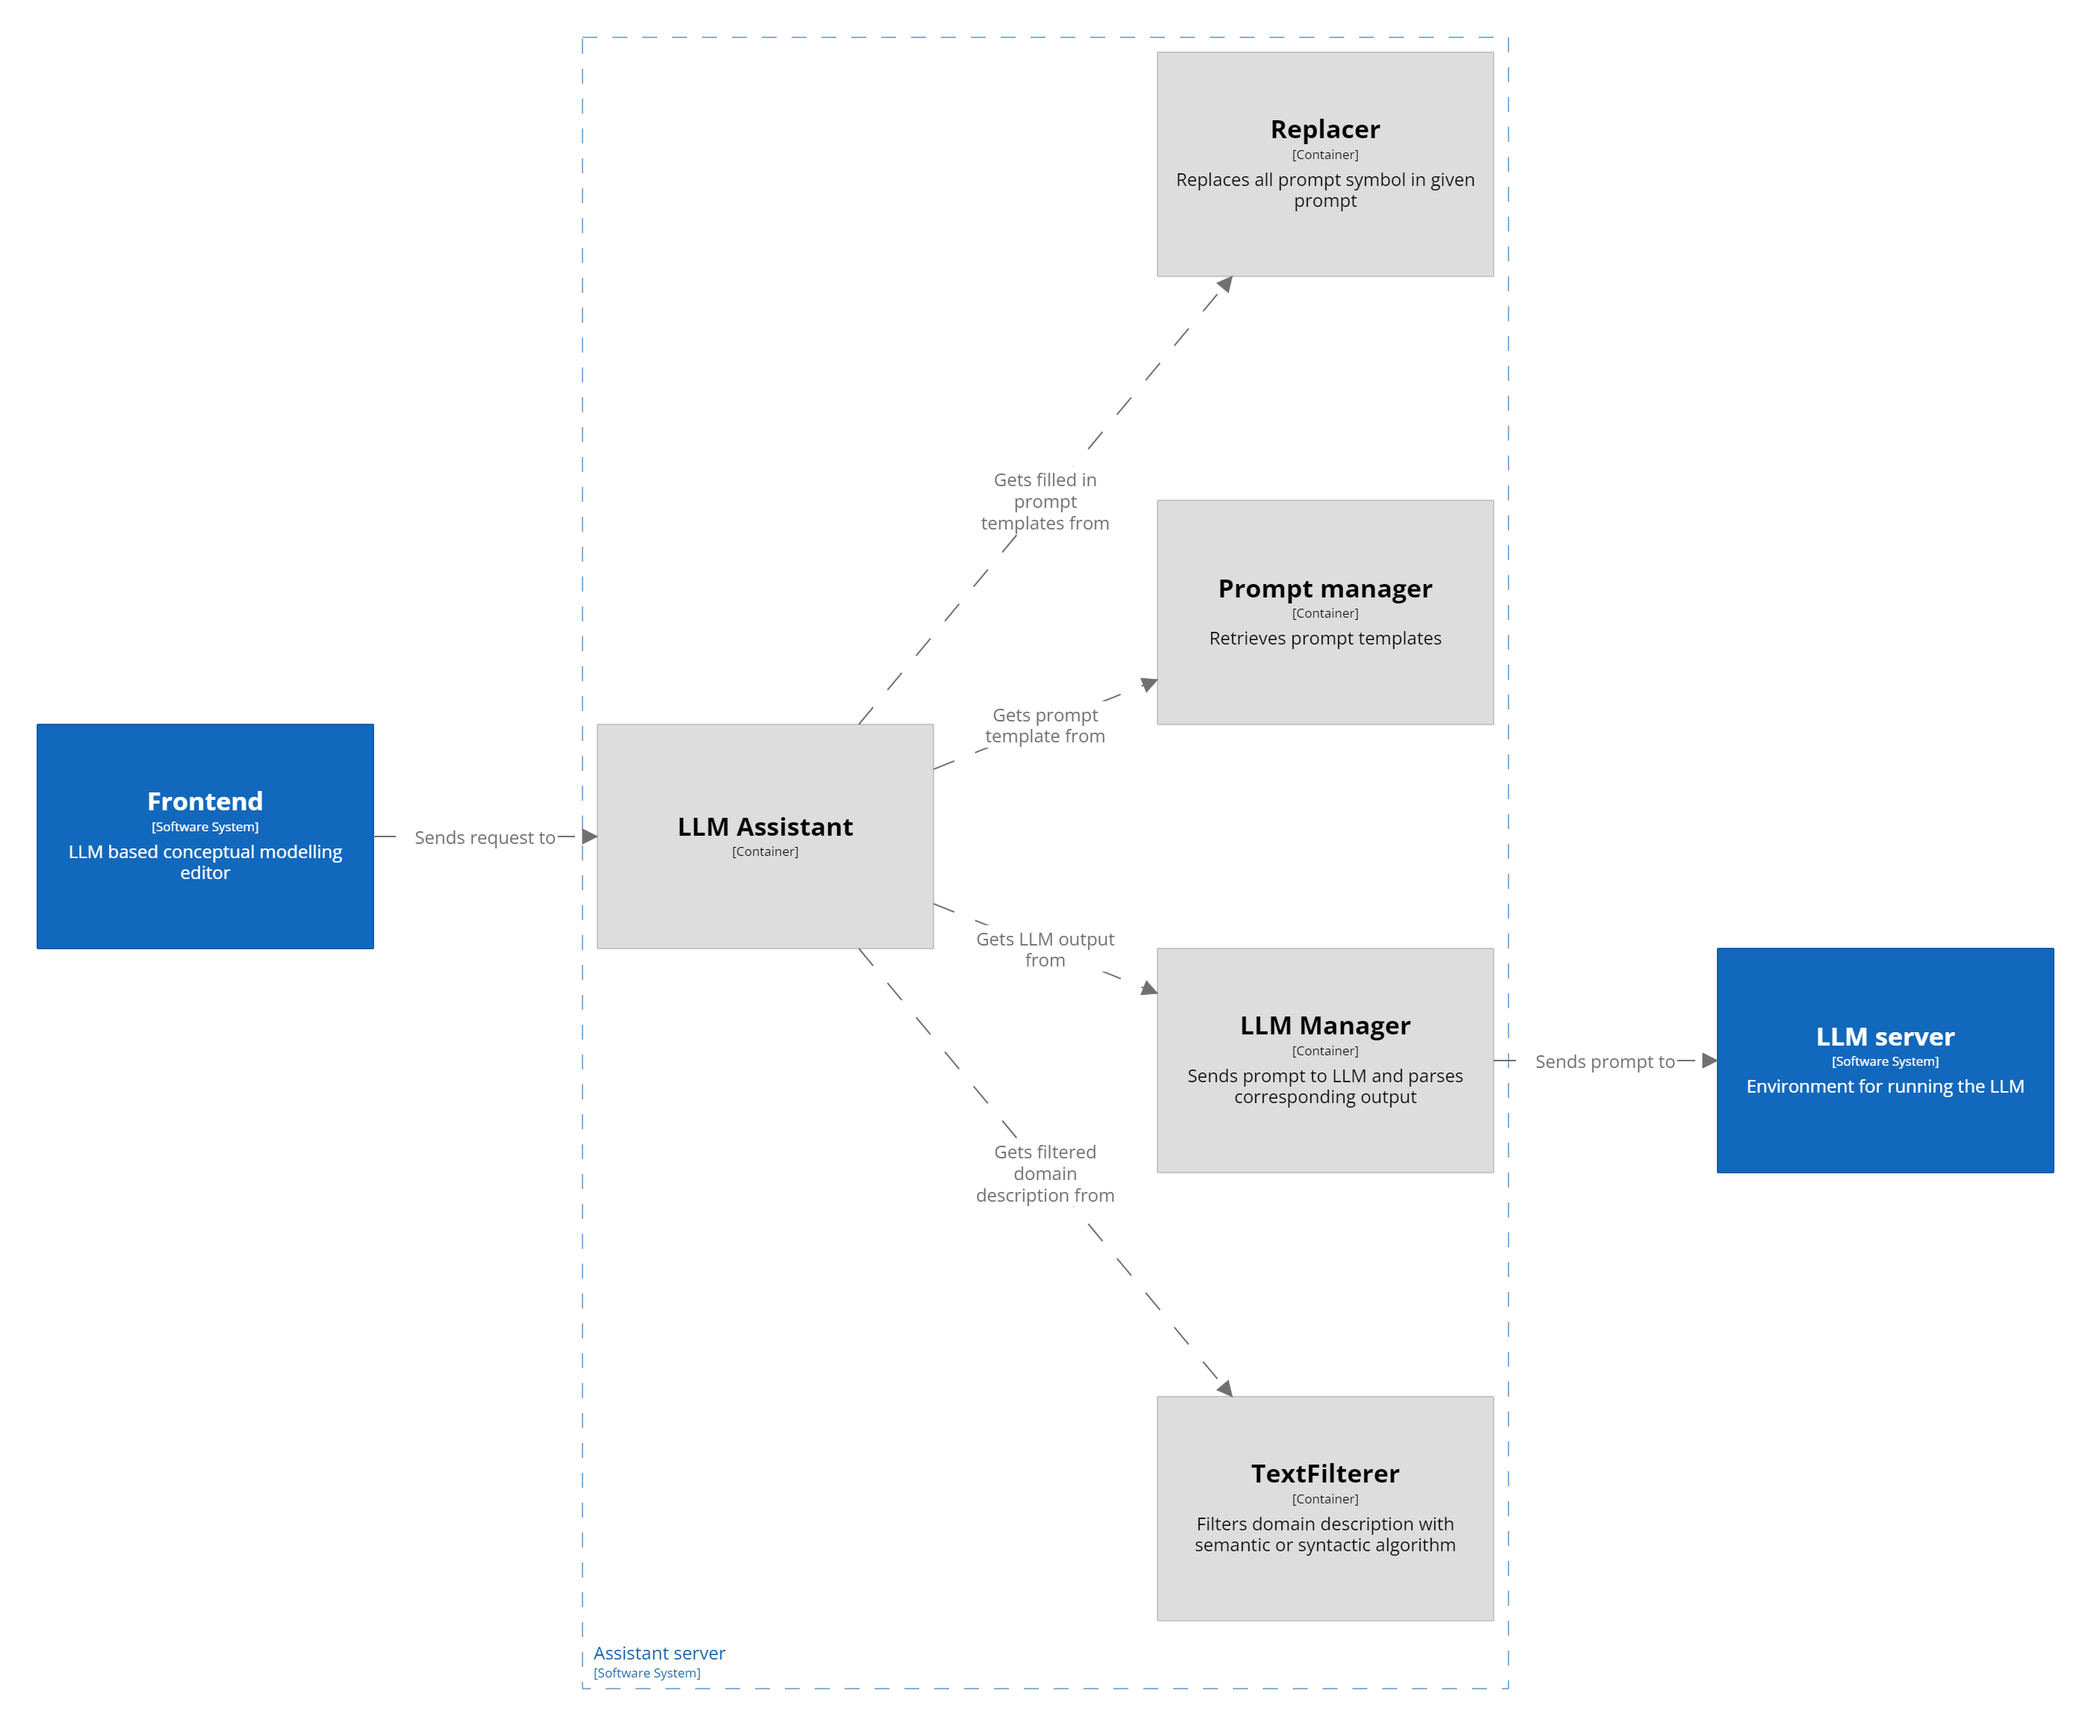
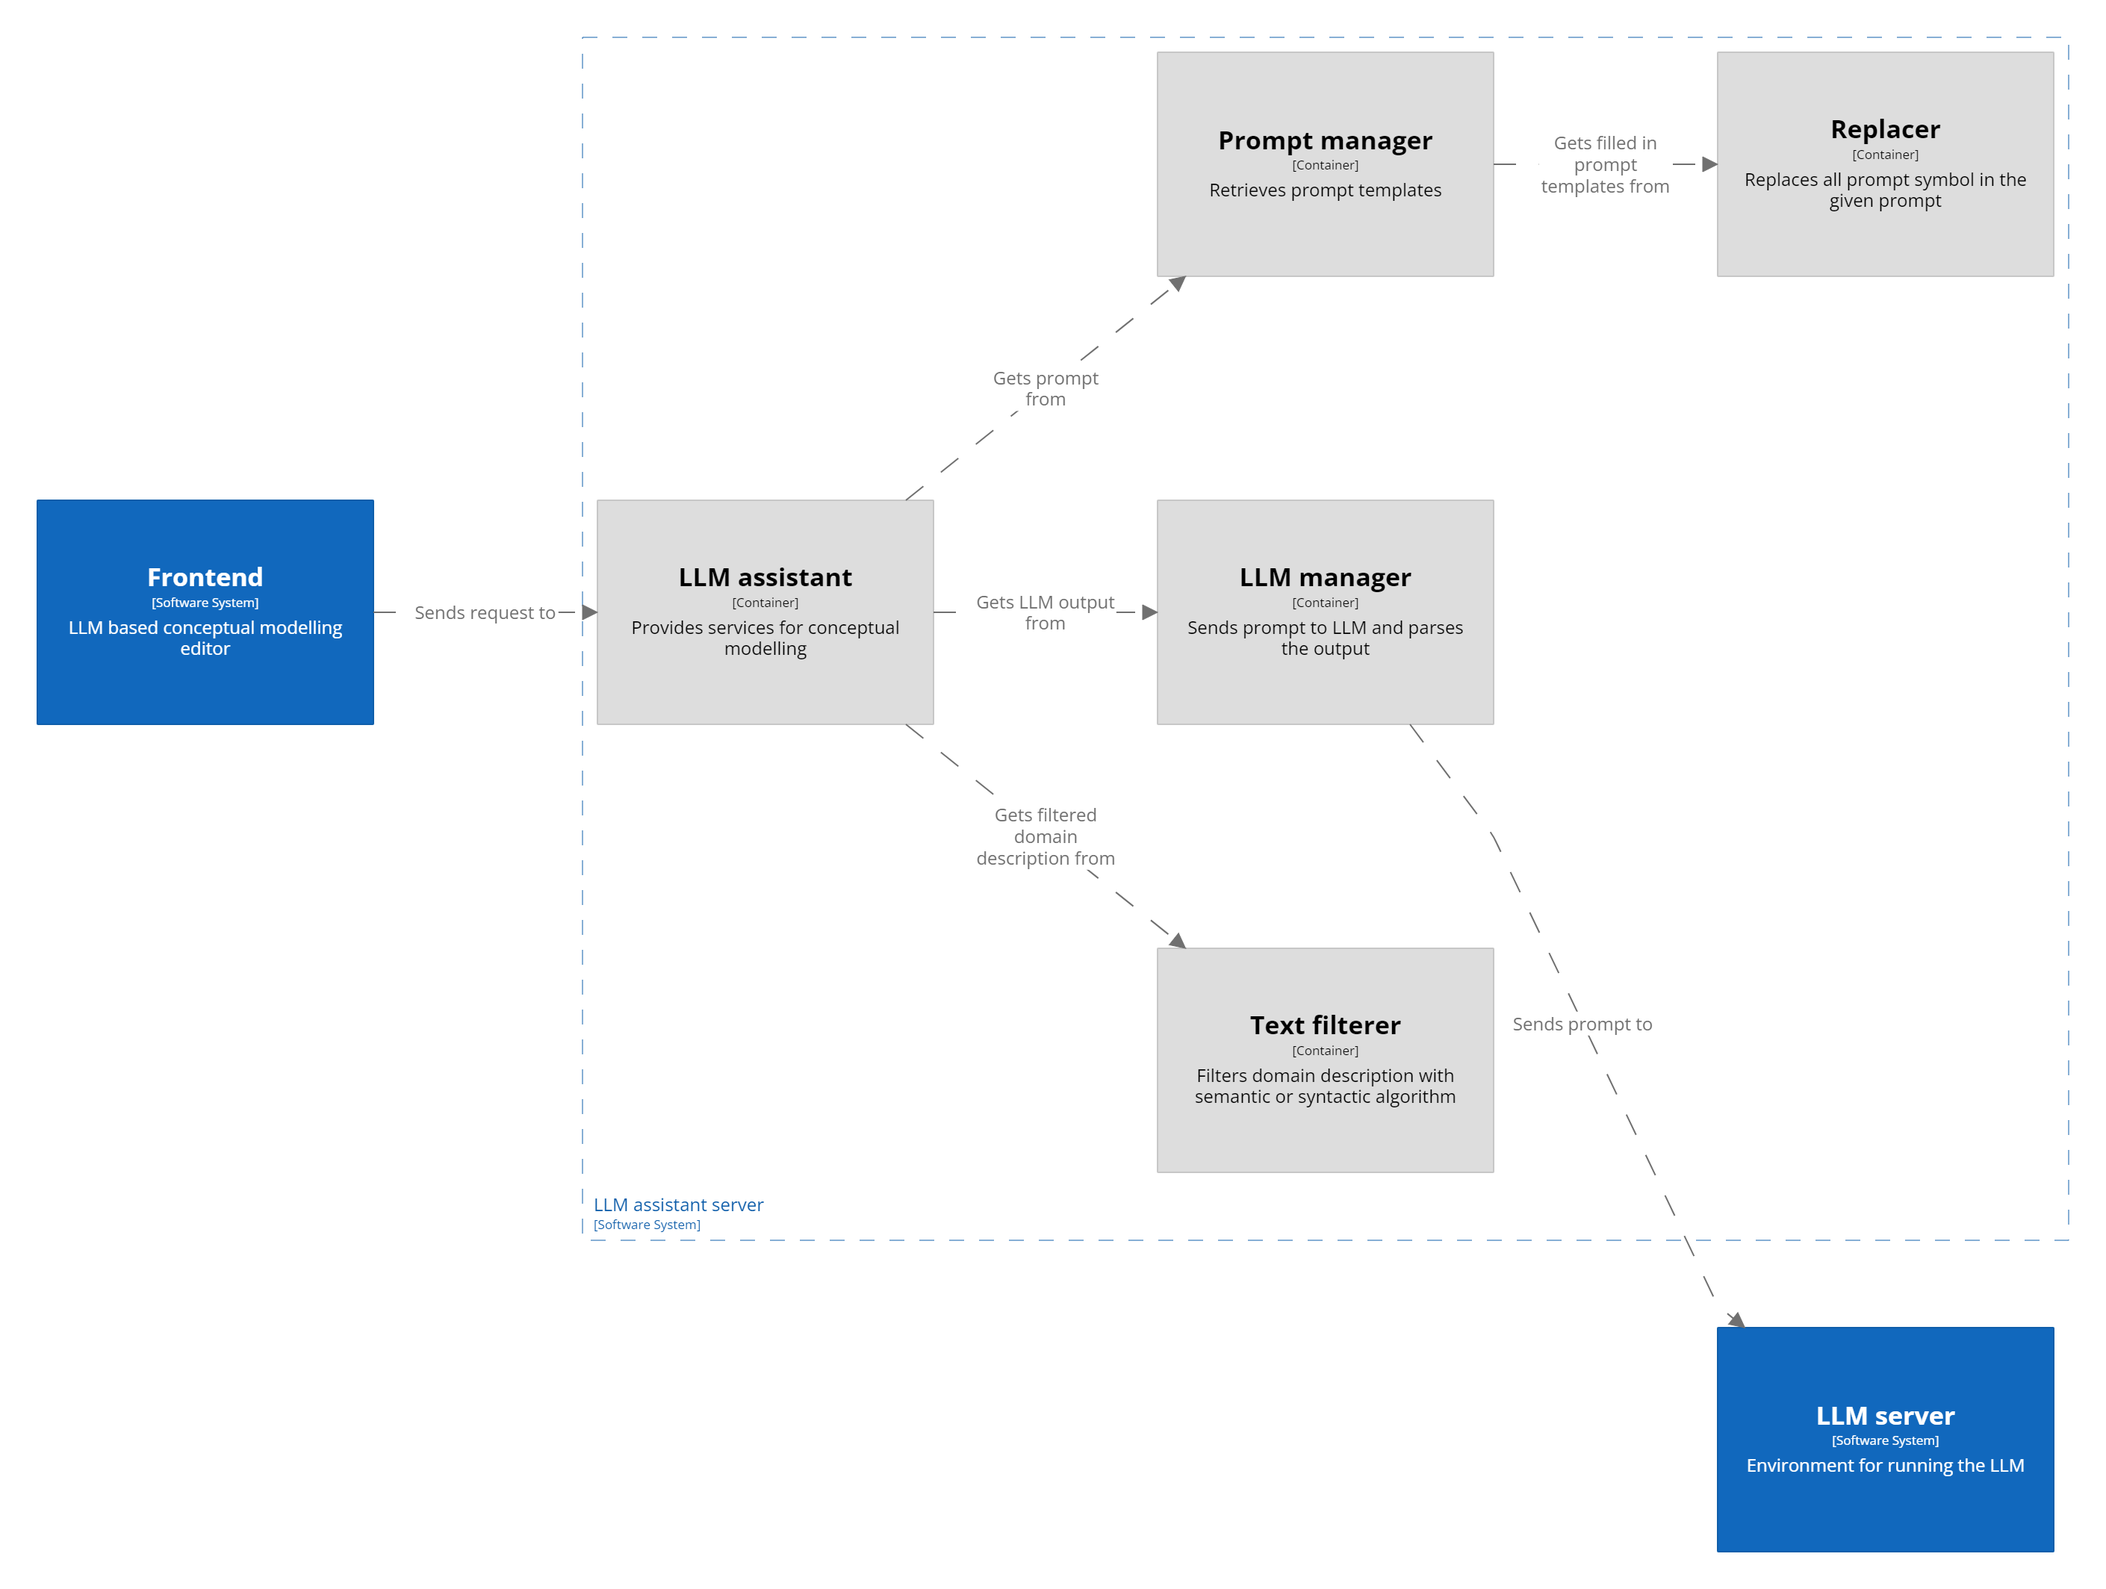
Update documentation

diff --git a/backend/data-processing/evaluation/evaluate_relevant_text_finder.py b/backend/data-processing/evaluation/evaluate_relevant_text_finder.py
@@ -14,7 +14,7 @@ import json
 from text_splitter import TextSplitter
 from definitions.utility import TextFilteringVariation, UserChoice
 from syntactic_text_filterer import SyntacticTextFilterer
-from definitions.domain_modeling import DOMAIN_MODELING_DIRECTORY_PATH, DOMAIN_DESCRIPTIONS_COUNT, DOMAIN_MODELS, DOMAIN_MODELS_NAME, DOMAIN_TEXTS_COUNT
+from backend.definitions.domain_modelling import DOMAIN_MODELING_DIRECTORY_PATH, DOMAIN_DESCRIPTIONS_COUNT, DOMAIN_MODELS, DOMAIN_MODELS_NAME, DOMAIN_TEXTS_COUNT
 
 
 # Indexes correspond to texts in domain models and last index corresponds to all texts together

diff --git a/backend/data-processing/generation/generate_suggestions.py b/backend/data-processing/generation/generate_suggestions.py
@@ -11,7 +11,7 @@ sys.path.append(os.path.join(TEXT_FILTERING_DIRECTORY_NAME, "syntactic"))
 sys.path.append(os.path.join(TEXT_FILTERING_DIRECTORY_NAME, "semantic"))
 
 from definitions.utility import Field, FieldUI, UserChoice
-from definitions.domain_modeling import DOMAIN_DESCRIPTIONS_COUNT, DOMAIN_MODELING_DIRECTORY_PATH, DOMAIN_MODELS, DOMAIN_MODELS_NAME
+from backend.definitions.domain_modelling import DOMAIN_DESCRIPTIONS_COUNT, DOMAIN_MODELING_DIRECTORY_PATH, DOMAIN_MODELS, DOMAIN_MODELS_NAME
 from llm_assistant import LLMAssistant
 
 

diff --git a/backend/utils/llm_assistant.py b/backend/utils/llm_assistant.py
@@ -14,7 +14,7 @@ from original_text_finder import OriginalTextFinder
 from definitions.logging import LOG_DIRECTORY, LOG_FILE_PATH, LOGGER_NAME
 from text_utility import TextUtility
 from definitions.utility import CLASSES_BLACK_LIST, Field, TextFilteringVariation, UserChoice
-from LLM_manager import LLMManager
+from llm_manager import LLMManager
 from prompt_manager import PromptManager
 from syntactic_text_filterer import SyntacticTextFilterer
 from semantic_text_filterer import SemanticTextFilterer

diff --git a/backend/data-processing/evaluation/evaluate_suggestions.py b/backend/data-processing/evaluation/evaluate_suggestions.py
@@ -6,7 +6,7 @@ import sys
 sys.path.append(".")
 
 from definitions.utility import UserChoice
-from definitions.domain_modeling import DOMAIN_DESCRIPTIONS_COUNT, DOMAIN_MODELING_DIRECTORY_PATH, DOMAIN_MODELS, DOMAIN_MODELS_NAME, DOMAIN_TEXTS_COUNT
+from backend.definitions.domain_modelling import DOMAIN_DESCRIPTIONS_COUNT, DOMAIN_MODELING_DIRECTORY_PATH, DOMAIN_MODELS, DOMAIN_MODELS_NAME, DOMAIN_TEXTS_COUNT
 
 
 MANUAL_EVALUATION_DIRECTORY_PATH = os.path.join("out", "evaluated", "actual")

diff --git a/backend/data-processing/generation/generate_test_data.py b/backend/data-processing/generation/generate_test_data.py
@@ -8,7 +8,7 @@ sys.path.append("utils")
 
 from text_splitter import TextSplitter
 from definitions.utility import Field, UserChoice
-from definitions.domain_modeling import DOMAIN_DESCRIPTIONS_COUNT, DOMAIN_MODELING_DIRECTORY_PATH, DOMAIN_MODELS, DOMAIN_MODELS_NAME
+from backend.definitions.domain_modelling import DOMAIN_DESCRIPTIONS_COUNT, DOMAIN_MODELING_DIRECTORY_PATH, DOMAIN_MODELS, DOMAIN_MODELS_NAME
 
 
 BASE_URL = "https://backend.dataspecer.com/simplified-semantic-model?iri="

diff --git a/backend/data-processing/generation/generate_prompt_examples.py b/backend/data-processing/generation/generate_prompt_examples.py
@@ -5,7 +5,7 @@ import sys
 sys.path.append(".")
 
 from definitions.utility import Field, FieldUI, UserChoice
-from definitions.domain_modeling import DOMAIN_PROMPTING_DIRECTORY_PATH, PROMPTING_MODEL_NAME
+from backend.definitions.domain_modelling import DOMAIN_PROMPTING_DIRECTORY_PATH, PROMPTING_MODEL_NAME
 
 FILE_NAME = "domain-description-01-annotated.txt"
 IN_FILE_PATH_END = "expected-suggestions-01.json"

diff --git a/backend/data-processing/generation/generate_plantUML.py b/backend/data-processing/generation/generate_plantUML.py
@@ -7,7 +7,7 @@ sys.path.append(".")
 sys.path.append("utils")
 
 from definitions.utility import UserChoice
-from definitions.domain_modeling import DOMAIN_DESCRIPTIONS_COUNT, DOMAIN_MODELS_NAME
+from backend.definitions.domain_modelling import DOMAIN_DESCRIPTIONS_COUNT, DOMAIN_MODELS_NAME
 
 
 DIRECTORY_PATH = os.path.join("out", "actual")

diff --git a/backend/server.py b/backend/server.py
@@ -172,7 +172,7 @@ def save_suggested_summary():
 
 @app.route('/')
 def index():
-    return "LLM assistant backend"
+    return "<p>LLM assistant server</p>"
 
 
 if __name__ == "__main__":

diff --git a/docs/architecture.md b/docs/architecture.md
@@ -34,28 +34,32 @@
 
 ### Prompt processing
 - `LLMAssistant` uses instance of the `PromptManager` class from `utils/prompt_manager.py` to find the corresponding prompt template
-- then the class `Multireplacer` from `utils/multireplacer.py` replaces the prompt symbols defined inside `definitions/prompt_symbols.py` with the corresponding parameters from the user
+- then the class `Replacer` from `utils/replacer.py` replaces the prompt symbols defined inside `definitions/prompt_symbols.py` with the corresponding parameters from the user
 - when the domain description is being filled in it can be firstly filtered by either our semantic or syntactic algorithm
     - first the domain description is splited into chunks by the class `TextSplitter` from `utils/text_splitter.py`
 
-    - the semantic algorithm uses for filtering instance of the class `SemanticTextFilterer` from `text-filterer/semantic_text_filterer.py`
+    - the semantic algorithm uses instance of the class `SemanticTextFilterer` from `text-filterer/semantic_text_filterer.py`
         - it uses a language model from [SentenceTransformers](https://sbert.net/) library
-    - the syntactic algorithm uses for filtering instance of the class `SyntacticTextFilterer` from `text-filterer/syntactic_text_filterer.py`
+    - the syntactic algorithm uses instance of the class `SyntacticTextFilterer` from `text-filterer/syntactic_text_filterer.py`
         - it uses a language model from [MorphoDiTa](https://pypi.org/project/ufal.morphodita/) library
 
-- when all symbols in the prompt are filled in the prompt is ready to be sent to the LLM backend
-    - to run the LLM backend we use [llama.cpp server](https://github.com/ggerganov/llama.cpp/blob/master/examples/server/README.md)
-    - the LLM backend is run by the script `llm_backend.sh`
+- when all symbols in the prompt are filled in the prompt is ready to be sent to the LLM server
+
+
+### LLM server
+- we use [llama.cpp server](https://github.com/ggerganov/llama.cpp/blob/master/examples/server/README.md)
+- we communicate with this LLM server via [OpenAI API](https://github.com/openai/openai-openapi)
+    - [here is an example](https://github.com/ggerganov/llama.cpp/blob/master/examples/server/README.md#result-json-1) of how to send request in Python
 
 
 ### LLM output processing
-- the `LLMAssistant` uses the instance of the class `OutputGenerator` from `utils/output_generator.py` to send the prompt to the LLM backend and to parse the output
-- if the outputed object contains original text then an instance of the class `OriginalTextFinder` from `utils/original_text_finder.py` is used to find it's original text indexes to possibly highlight to the user this object in the domain description
+- the `LLMAssistant` uses the instance of the class `LLMManager` from `utils/llm_manager.py` to send the prompt to the LLM server and to parse the output
+- if the outputed object contains original text then an instance of the class `OriginalTextFinder` from `utils/original_text_finder.py` is used to find it's original text indexes to highlight to the user this object in the domain description
     - the class `OriginalTextFinder` is able to recover from some minor misstakes which is tested inside the script `tests/find_original_text_indexes.py`
 - also we are automatically converting any generated name from any convention into the standard convention inside the script `utils/convention_convertor.py`
-    - this conversion is tested inside the `tests/convention_convertor.py` script
+    - correctness of this conversion is tested inside the `tests/convention_convertor.py` script
 
 - as soon as some object is generated by the LLM and checked by our scripts it is sent back to the user on the frontend for a faster response time
 
-- if the user wants to highlight the part of his domain description that he has already covered with his domain model then the instance of the class `OriginalTextMerger` is used to merge all original text indexes
-    - correct merging is tested inside `tests/merge_original_text_indexes.py`
+- if the user wants to highlight the parts of his domain description that he already covered with his conceptual model then the instance of the class `OriginalTextMerger` is used to merge all original text indexes
+    - correctness of the merging is tested inside `tests/merge_original_text_indexes.py`

diff --git a/backend/README.md b/backend/README.md
@@ -24,7 +24,7 @@ To use any of the scripts:
 
 <br/>
 
-## How to run LLM backend powered by llama.cpp
+## How to run LLM server powered by llama.cpp
 
 - clone [llama.cpp repository](https://github.com/ggerganov/llama.cpp):
 
@@ -42,16 +42,16 @@ To use any of the scripts:
 
 - download one of the [supported models](https://github.com/ggerganov/llama.cpp#description) in `GGUF` format
 
-- inside `llm_backend.sh`:
+- inside `llm_server.sh`:
     - set corresponding `MODEL_PATH` variable
     - set corresponding `CHAT_TEMPLATE` variable
 
 - for more information you can check [llama.cpp server documentation](https://github.com/ggerganov/llama.cpp/blob/master/examples/server/README.md)
 
-- run llm backend:
+- run llm server:
 
-        ./llm_backend.sh
-    - default port is 8080
+        ./llm_server.sh
+    - the default port is 8080 and can be changed via the `PORT` parameter
     - note: loading LLM for the first time is slow
 
 <br/>
@@ -61,8 +61,9 @@ To use any of the scripts:
     - here is a [link to download model english-morphium-wsj-140407.zip](https://lindat.mff.cuni.cz/repository/xmlui/bitstream/handle/11858/00-097C-0000-0023-68D9-0/english-morphium-wsj-140407.zip?sequence=3&isAllowed=y)
     - extract the files
     - set path to the `.tagger` file inside `backend/text-filtering/syntactic/morphodita-config.json`
+- note: the model for semantic text filtering will download automatically
 
 - run python server
 
         python server.py
-    - default port is 5000
+    - default port is 5000 and it can be changed via the `PORT` variable

diff --git a/docs/backend-dev.md b/docs/backend-dev.md
@@ -1,0 +1,37 @@
+# Backend development documentation
+
+## LLM assistant server
+- we are using [Flask](https://flask.palletsprojects.com/en/3.0.x/) version 3.0.1
+- all our scripts were made with Python version 3.10
+- [here si documentation of our API endpoints](api-endpoints.md)
+- [here is our tutorial how to launch the LLM assistant server](../backend/README.md#how-to-run-llm-assistant-server)
+
+- the code is divided into 3 main directories:
+    - definitions
+    - text-filtering
+    - utils
+
+
+### definitions
+- provides definitions of constant variables and enums
+
+### text-filtering
+- provides semantic and syntactic algorithm for domain description filtering
+
+
+### utils
+- contains scripts used by the LLM server to provide help to the user with conceptual modelling
+- all these scripts are briefly described in the [architecture documentation](architecture.md)
+
+
+<br/>
+
+
+## LLM server
+- we are using [llama.cpp server](https://github.com/ggerganov/llama.cpp/blob/master/examples/server)
+    - it is a fast, lightweight, pure C/C++ HTTP server based on httplib, nlohmann::json and llama.cpp
+
+- our LLM assistant server communicates with the LLM server via [OpenAI API](https://github.com/openai/openai-openapi)
+    - bellow [this link](https://github.com/ggerganov/llama.cpp/blob/master/examples/server/README.md#result-json-1) is an example of how to send request in Python
+
+- [here is our tutorial how to launch the LLM server](../backend/README.md#how-to-run-llm-backend-powered-by-llamacpp)
